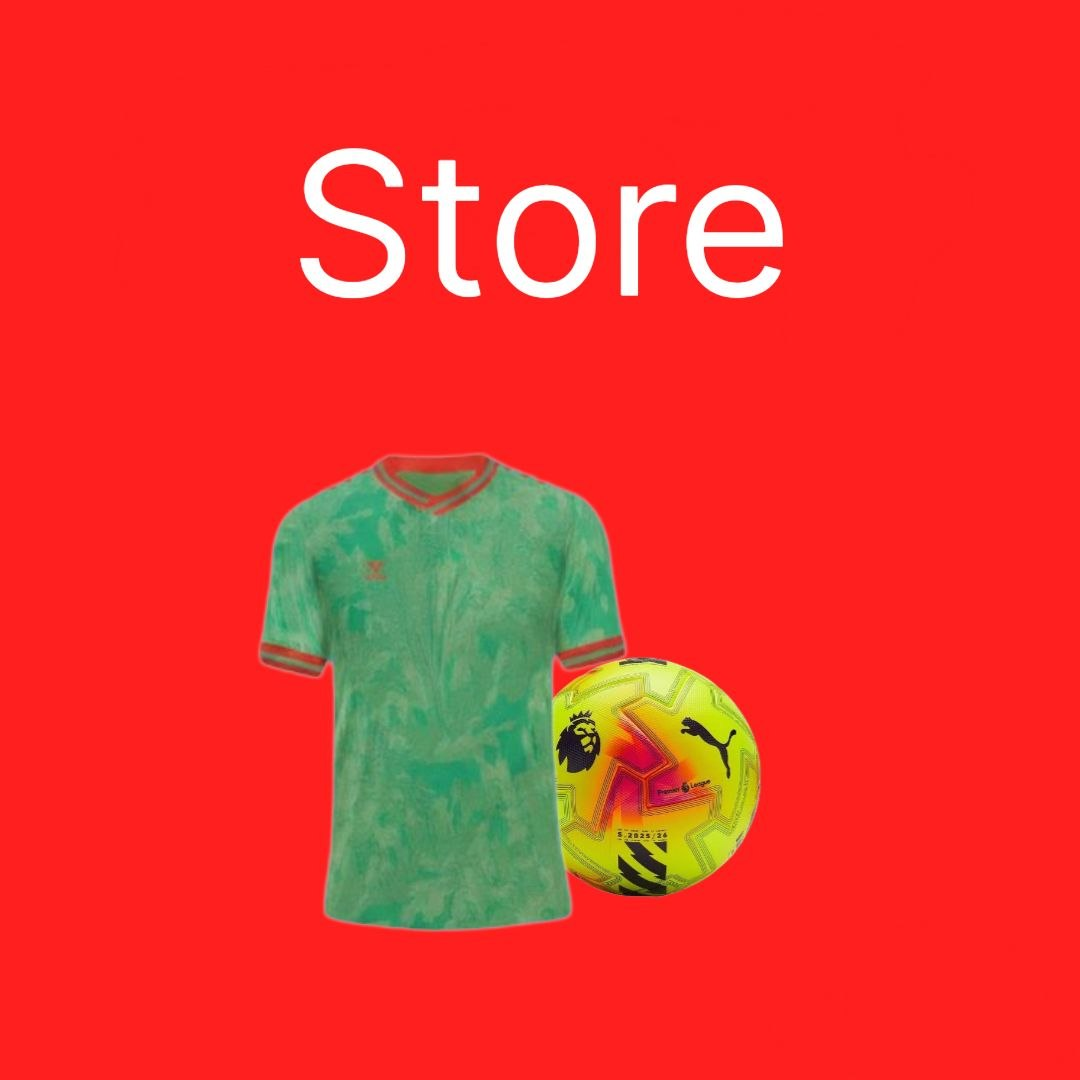
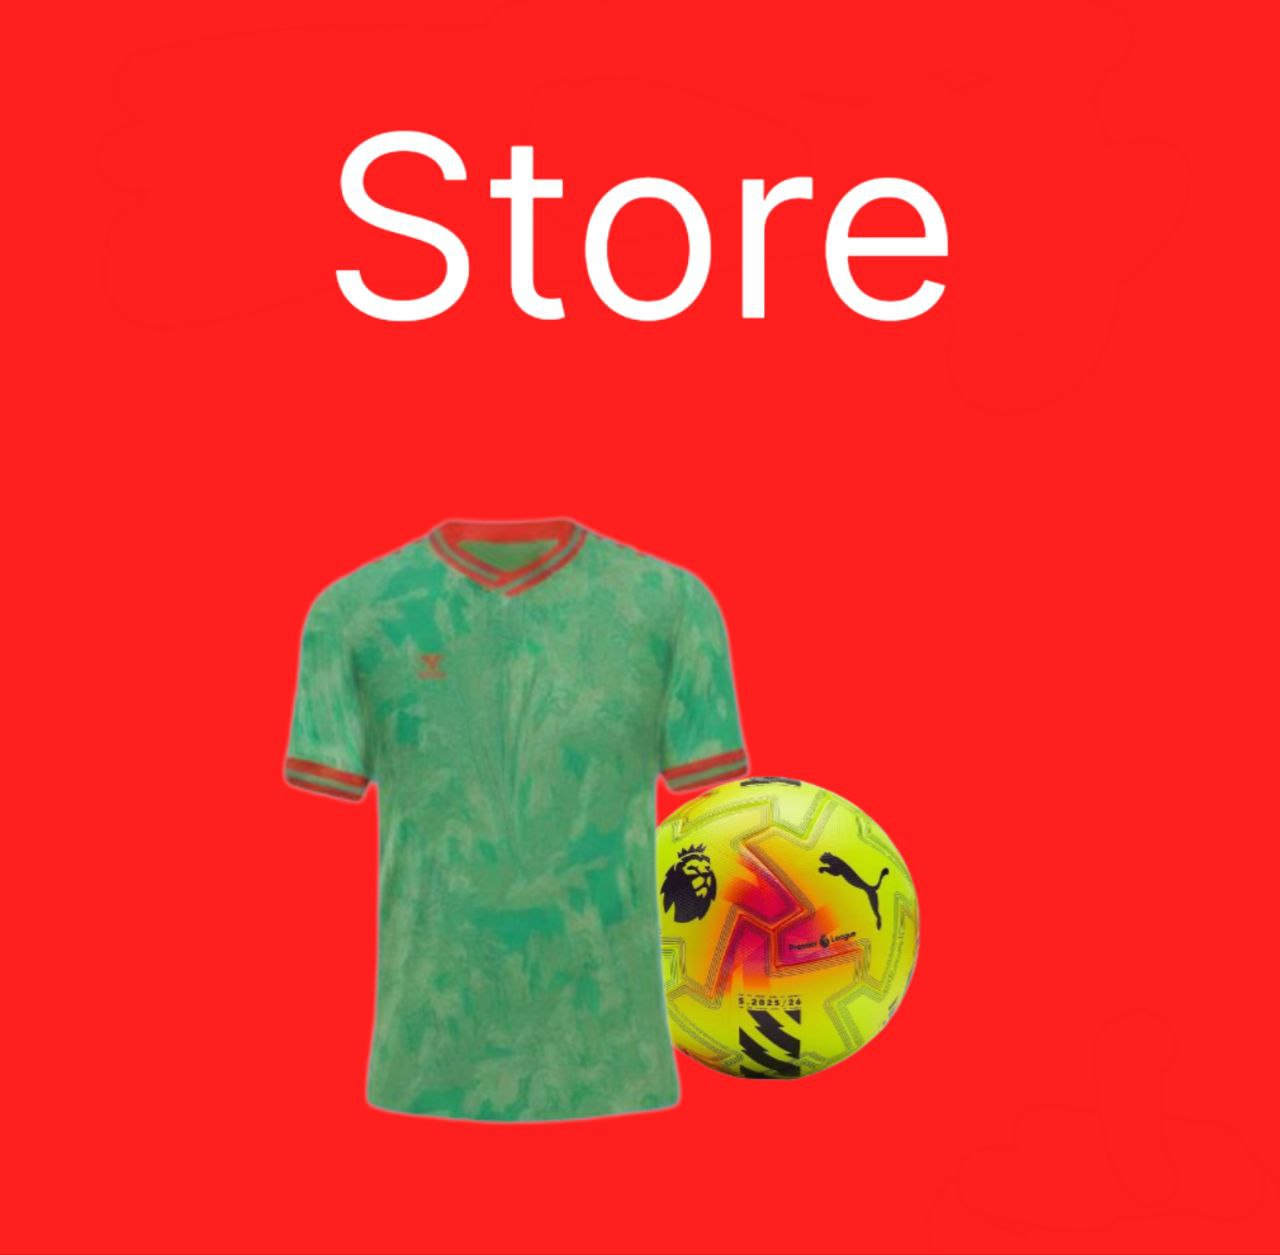
landing page

Changed region(s): [[0.2139, 0.3972, 0.7333, 0.9167], [0.2444, 0.0917, 0.7639, 0.275]]

diff --git a/leo/ecommerceapp/static/css/style.css b/leo/ecommerceapp/static/css/style.css
@@ -111,7 +111,7 @@ body {
     box-shadow: 2px 2px 15px ;
 }
 .sbox p{
-    margin: 6px 3px 0 10px;
+    margin: 1% 1% 0 3%;
 }
 
 .minibox{
@@ -120,7 +120,7 @@ body {
     border-width: 2px;
     border-radius: 3px;
     background-color: #ff1f1f;
-    height: 195px;
+    height: 49%;
     width: 50%;
     transition:all 1.1s ease;
     cursor: pointer;
@@ -131,7 +131,7 @@ body {
     box-shadow: 2px 2px 15px ;
 }
 .minibox p{
-    margin: 6px 3px 0 10px;
+    margin: 2% 1% 0 3%;
 }
 
 .trible{
@@ -145,16 +145,20 @@ body {
     width:100%;
 }
 
-.reference-sec{
+.reference-sec {
     display: flex;
-    margin: 10% 0 0 22%;
-    gap: 8%;
-    width: 70%;
-    
+    margin: 10% 0 0 25%;
+    gap: 12%;
+    width: 50%;
 }
 
-.reference-img{
-    width: 70%;
+.reference-sec a {
+    display: inline-flex;  /* أو inline-block */
+    line-height: 0;        /* يلغي المسافة الزائدة تحت الصورة */
+}
+
+.reference-img {
+    width: 100%;
     border-style: solid;
     border-color: #000000;
     border-width: 2px;
@@ -165,6 +169,20 @@ body {
 .reference-img:hover{
     transform: scale(1.05);
     box-shadow: 2px 2px 15px ;
+}
+.end-box {
+    height: 120px;
+    border: 2px solid black;
+    background-color: black;
+    margin-top: 20%;
+    color: #F8F7F4;    
+    text-align: center;
+}
+.end-box p, h2{
+    font-family: 'Gill Sans', 'Gill Sans MT', Calibri, 'Trebuchet MS', sans-serif;
+    font-size: 180%;
+    
+    margin-top: 1%;
 }
 @media (max-width: 60rem) {
     .navbar {
@@ -201,25 +219,43 @@ body {
         height: 350px;
     }
     .newsbox{
-        display:contents;
+        display: flex;
+        flex-direction: column;  /* يرصهم فوق بعض */
+        align-items: center;     /* يظبطهم في المنتصف */
+        width: 100%;
+        margin: 0;
+        gap: 0;
         font-size: 15px;
         
     
     }
     .sbox{
     width: 70%;
-    margin: 0 0 0 15%;
-    height: 350px;
-    margin-bottom: 15px;
+    border: 2px solid black;
+    height: 40%;
+    margin-bottom: 55px;
         
     }
+    .sbox p {
+        margin-bottom: 30%;
+        font-size: 20px;
+    }
+    .minibox p {
+        margin-bottom: 30%;
+        font-size: 20px;
+    }
+
     .minibox{
     width: 70%;
     margin: 0 0 0 15%;
-    height: 300px;
-    margin-bottom: 15px;
-    
+    margin-bottom: 12%;
     }
+
+    .reference-sec {
+        width: 70%;
+        margin-left: 15%;
+    }
+
     .update{
         font-size: 25px;
         margin-left: 15%;

diff --git a/leo/ecommerceapp/templates/index.html b/leo/ecommerceapp/templates/index.html
@@ -42,7 +42,7 @@
         <img class="trible" src="static\images\clublegend.jpg" >
         <p>Amzinho, 9 goals in a single match no one can deny his abilities</p>
       </div>
-      <div class="box">
+      <div>
         <div class="minibox">
           <img src="static\images\rank.png" class="rank">
           <p>Lideraly finshed second of the div 1 playoff table</p>
@@ -56,6 +56,10 @@
     <div class="reference-sec">
       <a href="/store"><img src="static\images\store.jpg" class="reference-img"></a>
       <a href="/players"><img src="static\images\players.jpg" class="reference-img"></a>
+    </div>
+    <div class="end-box">
+      <h2>LIDERALY FC </h2>
+      <p> Are you not entertained? </p>
     </div>
   </body>
 </html>